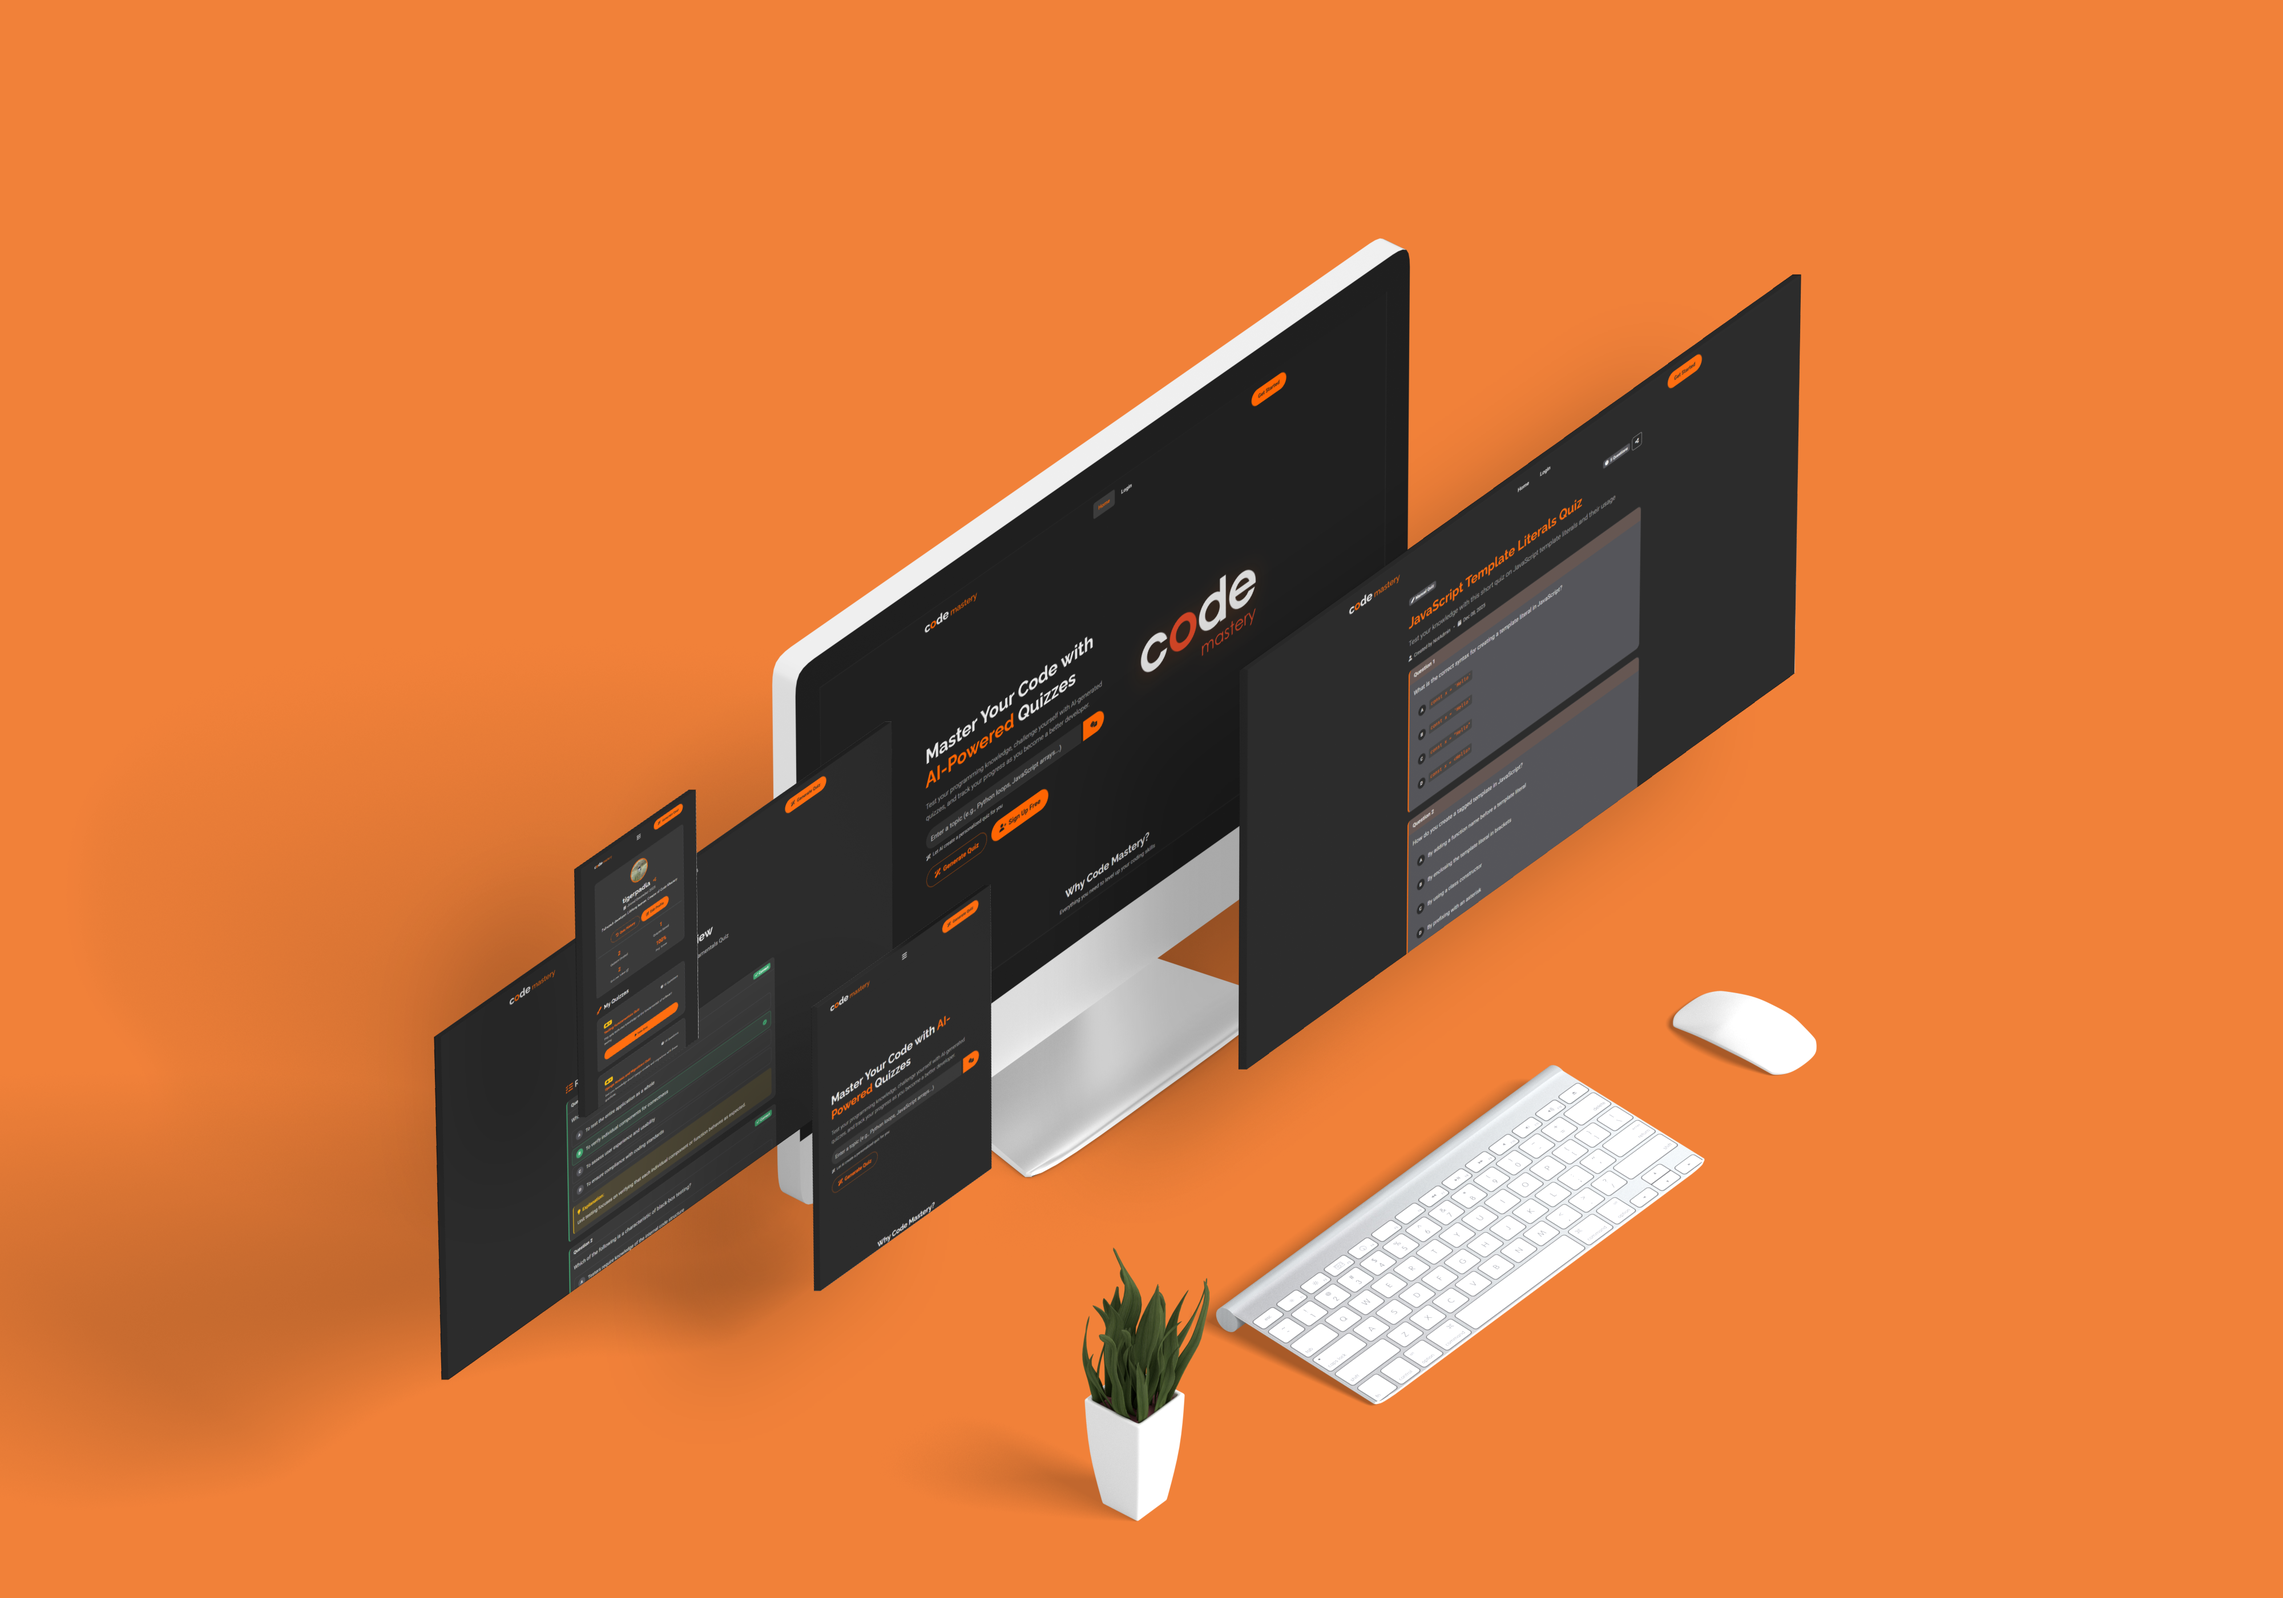
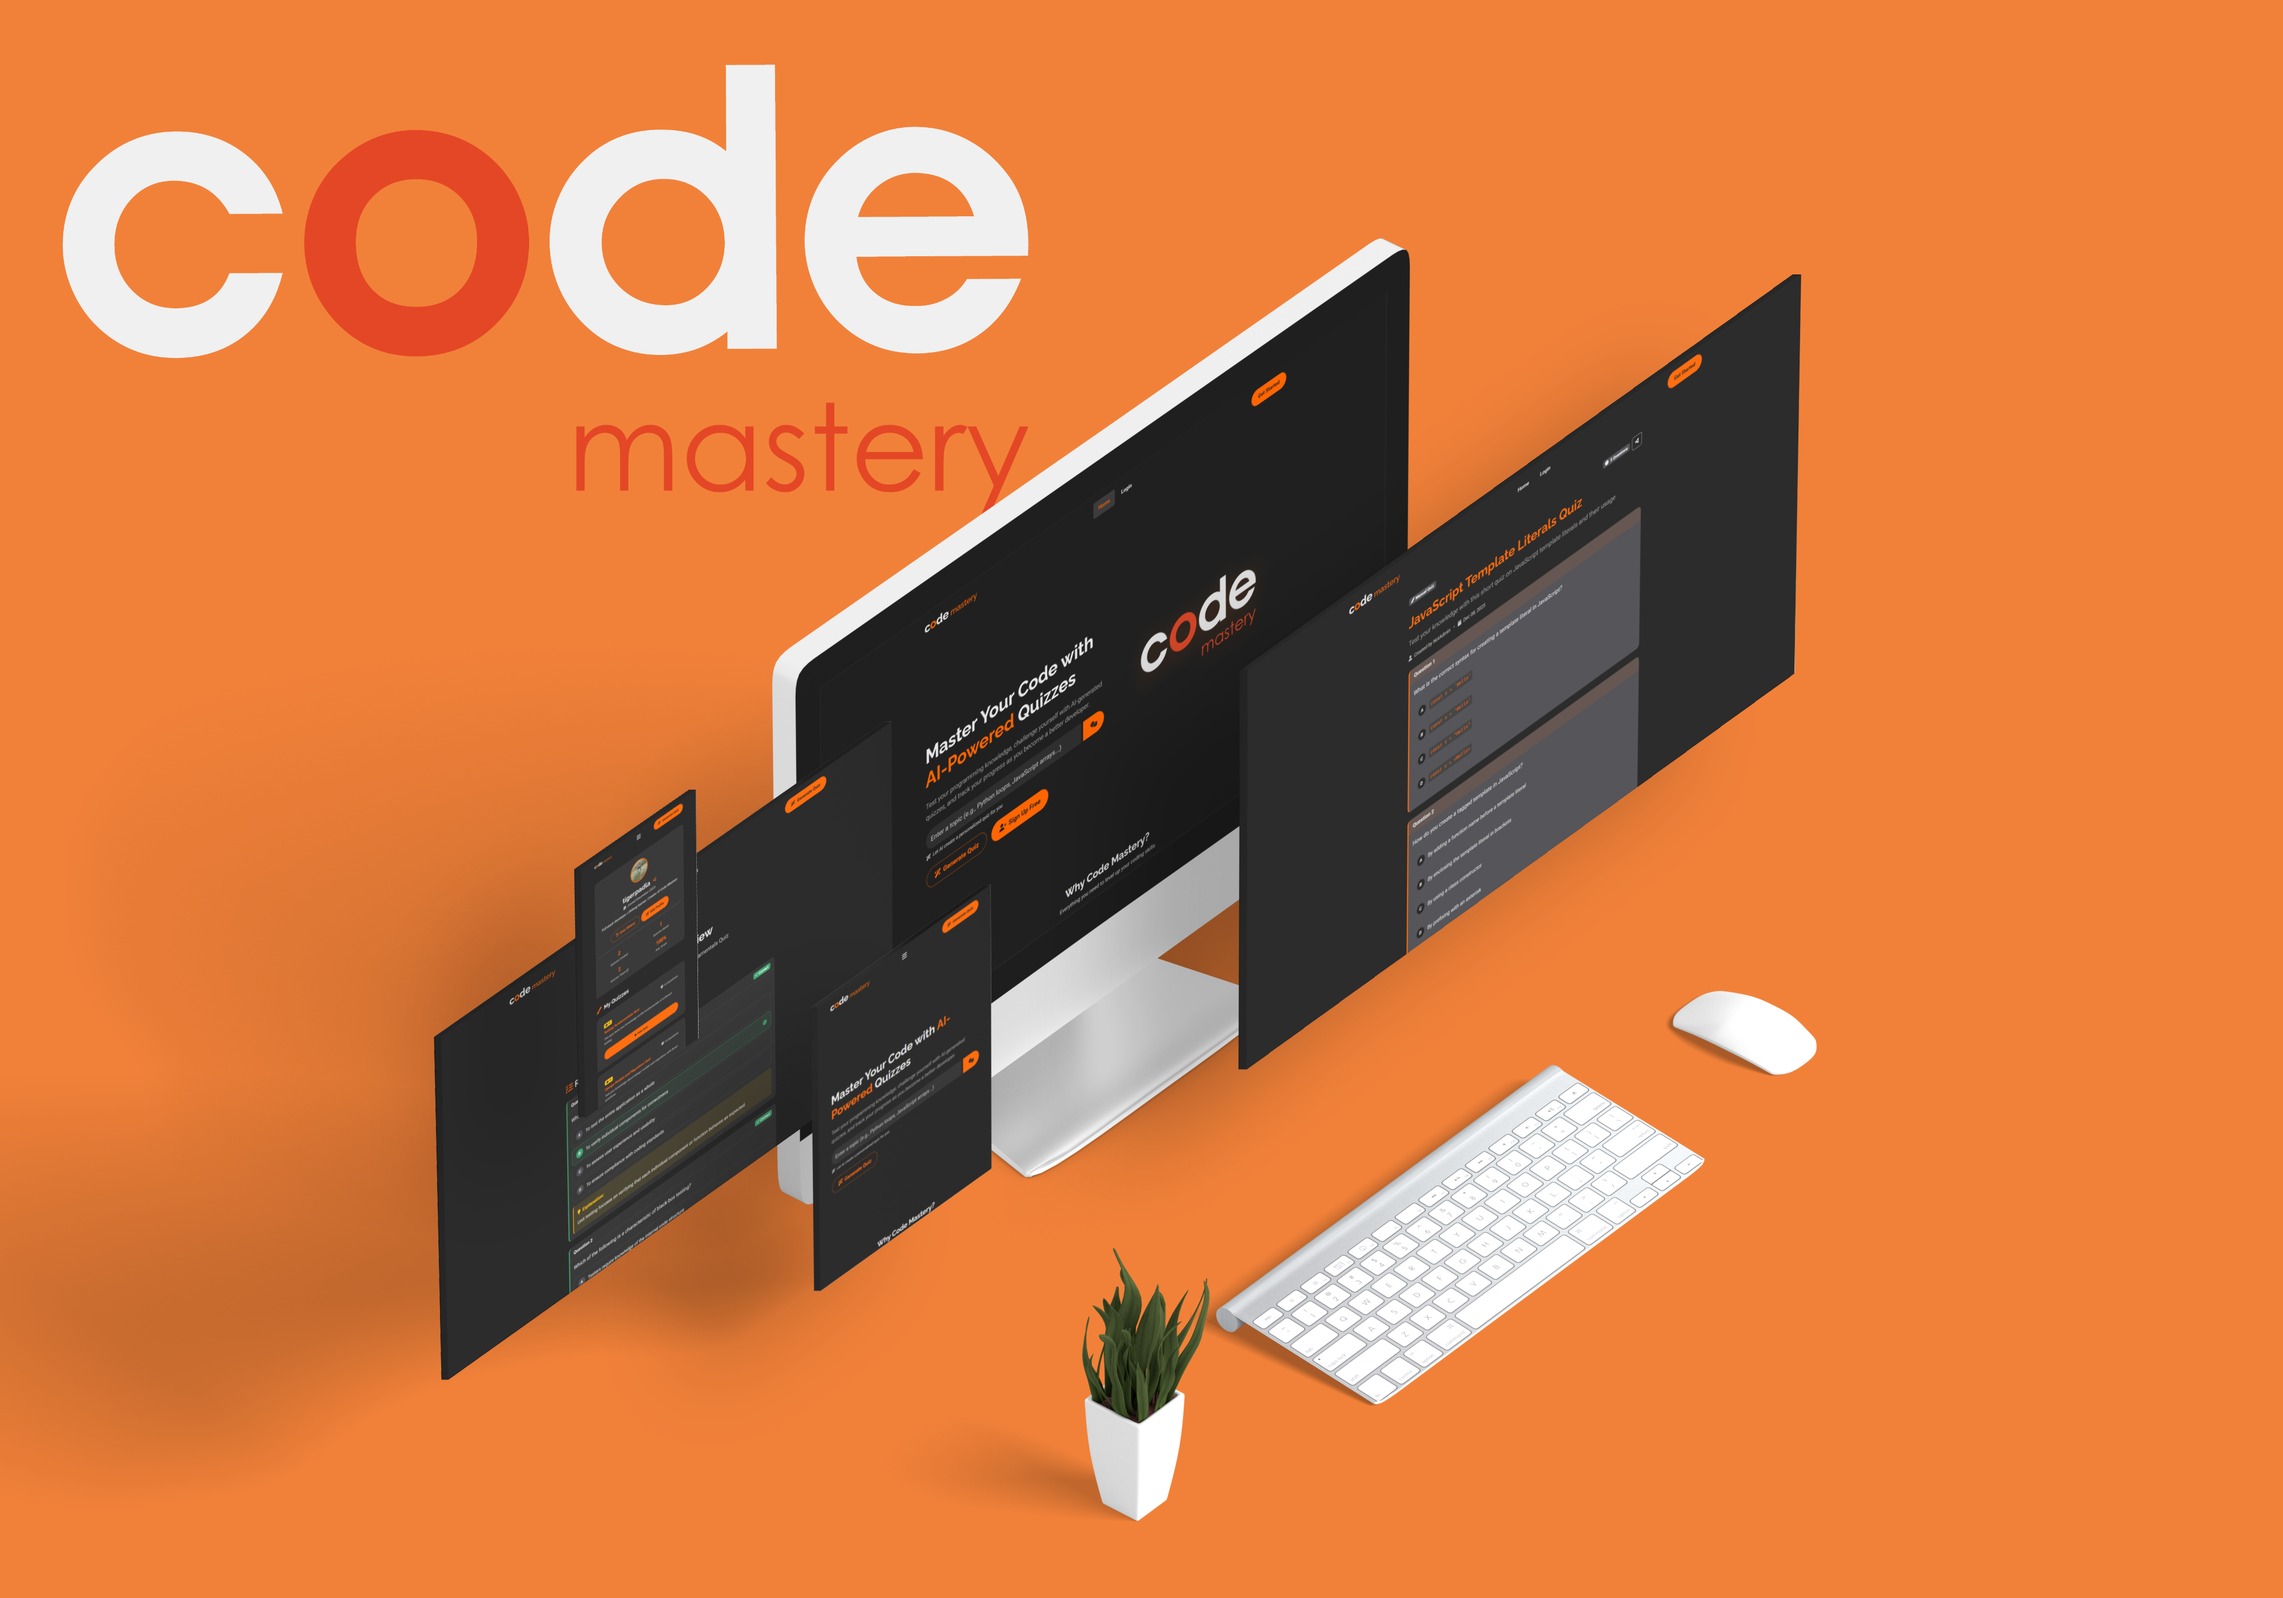
Remove unused SQLite db, clean settings, update README hero image

Changed region(s): [[0.0312, 0.0311, 0.4688, 0.2486], [0.25, 0.2486, 0.4375, 0.3107]]

diff --git a/code_mastery/settings.py b/code_mastery/settings.py
@@ -136,13 +136,6 @@ WSGI_APPLICATION = 'code_mastery.wsgi.application'
 # Database
 # https://docs.djangoproject.com/en/5.2/ref/settings/#databases
 
-# DATABASES = {
-#     'default': {
-#         'ENGINE': 'django.db.backends.sqlite3',
-#         'NAME': BASE_DIR / 'db.sqlite3',
-#     }
-# }
-
 DATABASES = {"default": dj_database_url.parse(os.environ.get("DATABASE_URL"))}
 
 CSRF_TRUSTED_ORIGINS = ["https://*.herokuapp.com",

diff --git a/README.md b/README.md
@@ -1,8 +1,8 @@
-# <img src="static/images/logo-loader.png" alt="Code Mastery Logo" width="20" height="20"> Code Mastery
+# <img src="static/images/logo-loader.png" alt="Code Mastery Logo" width="30" height="30"> Code Mastery
 
-![Python](https://img.shields.io/badge/Python-3.12-blue?logo=python&logoColor=white)
-![Django](https://img.shields.io/badge/Django-5.2-green?logo=django&logoColor=white)
-![Bootstrap](https://img.shields.io/badge/Bootstrap-5.3-purple?logo=bootstrap&logoColor=white)
+[![Python](https://img.shields.io/badge/Python-3.12-blue?logo=python&logoColor=white)](#languages)
+[![Django](https://img.shields.io/badge/Django-5.2-green?logo=django&logoColor=white)](#frameworks--libraries)
+[![Bootstrap](https://img.shields.io/badge/Bootstrap-5.3-purple?logo=bootstrap&logoColor=white)](#frameworks--libraries)
 [![Heroku](https://img.shields.io/badge/Deployed-Heroku-430098?logo=heroku&logoColor=white)](https://code-mastery-6f4f19cafdb0.herokuapp.com/)
 [![License](https://img.shields.io/badge/License-MIT-yellow)](LICENSE)
 [![HTML](https://img.shields.io/badge/HTML-Validated-success?logo=w3c&logoColor=white)](#html-validation-w3c)
@@ -17,9 +17,9 @@
 
 Code Mastery is an AI-powered quiz platform designed for developers, bootcamp students, and educators alike. Instantly generate quizzes on any programming topic using AI, create custom quizzes to share with your students or community, track your learning progress, and keep your coding knowledge fresh - whether you're learning, teaching, or preparing for interviews.
 
-<img src="static/images/logo-loader.png" alt="Code Mastery Logo" width="14" height="14"> **[Live Site](https://code-mastery-6f4f19cafdb0.herokuapp.com/)**
+<img src="static/images/logo-loader.png" alt="Code Mastery Logo" width="15" height="15"> **[Live Site](https://code-mastery-6f4f19cafdb0.herokuapp.com/)**
 
-<img src="https://img.icons8.com/ios-glyphs/30/ffffff/github.png" alt="GitHub" width="14" height="14"> **[GitHub Repository](https://github.com/tigerpadla/code_mastery)**
+<img src="https://img.icons8.com/ios-glyphs/30/ffffff/github.png" alt="GitHub" width="15" height="15"> **[GitHub Repository](https://github.com/tigerpadla/code_mastery)**
 
 ---
 
